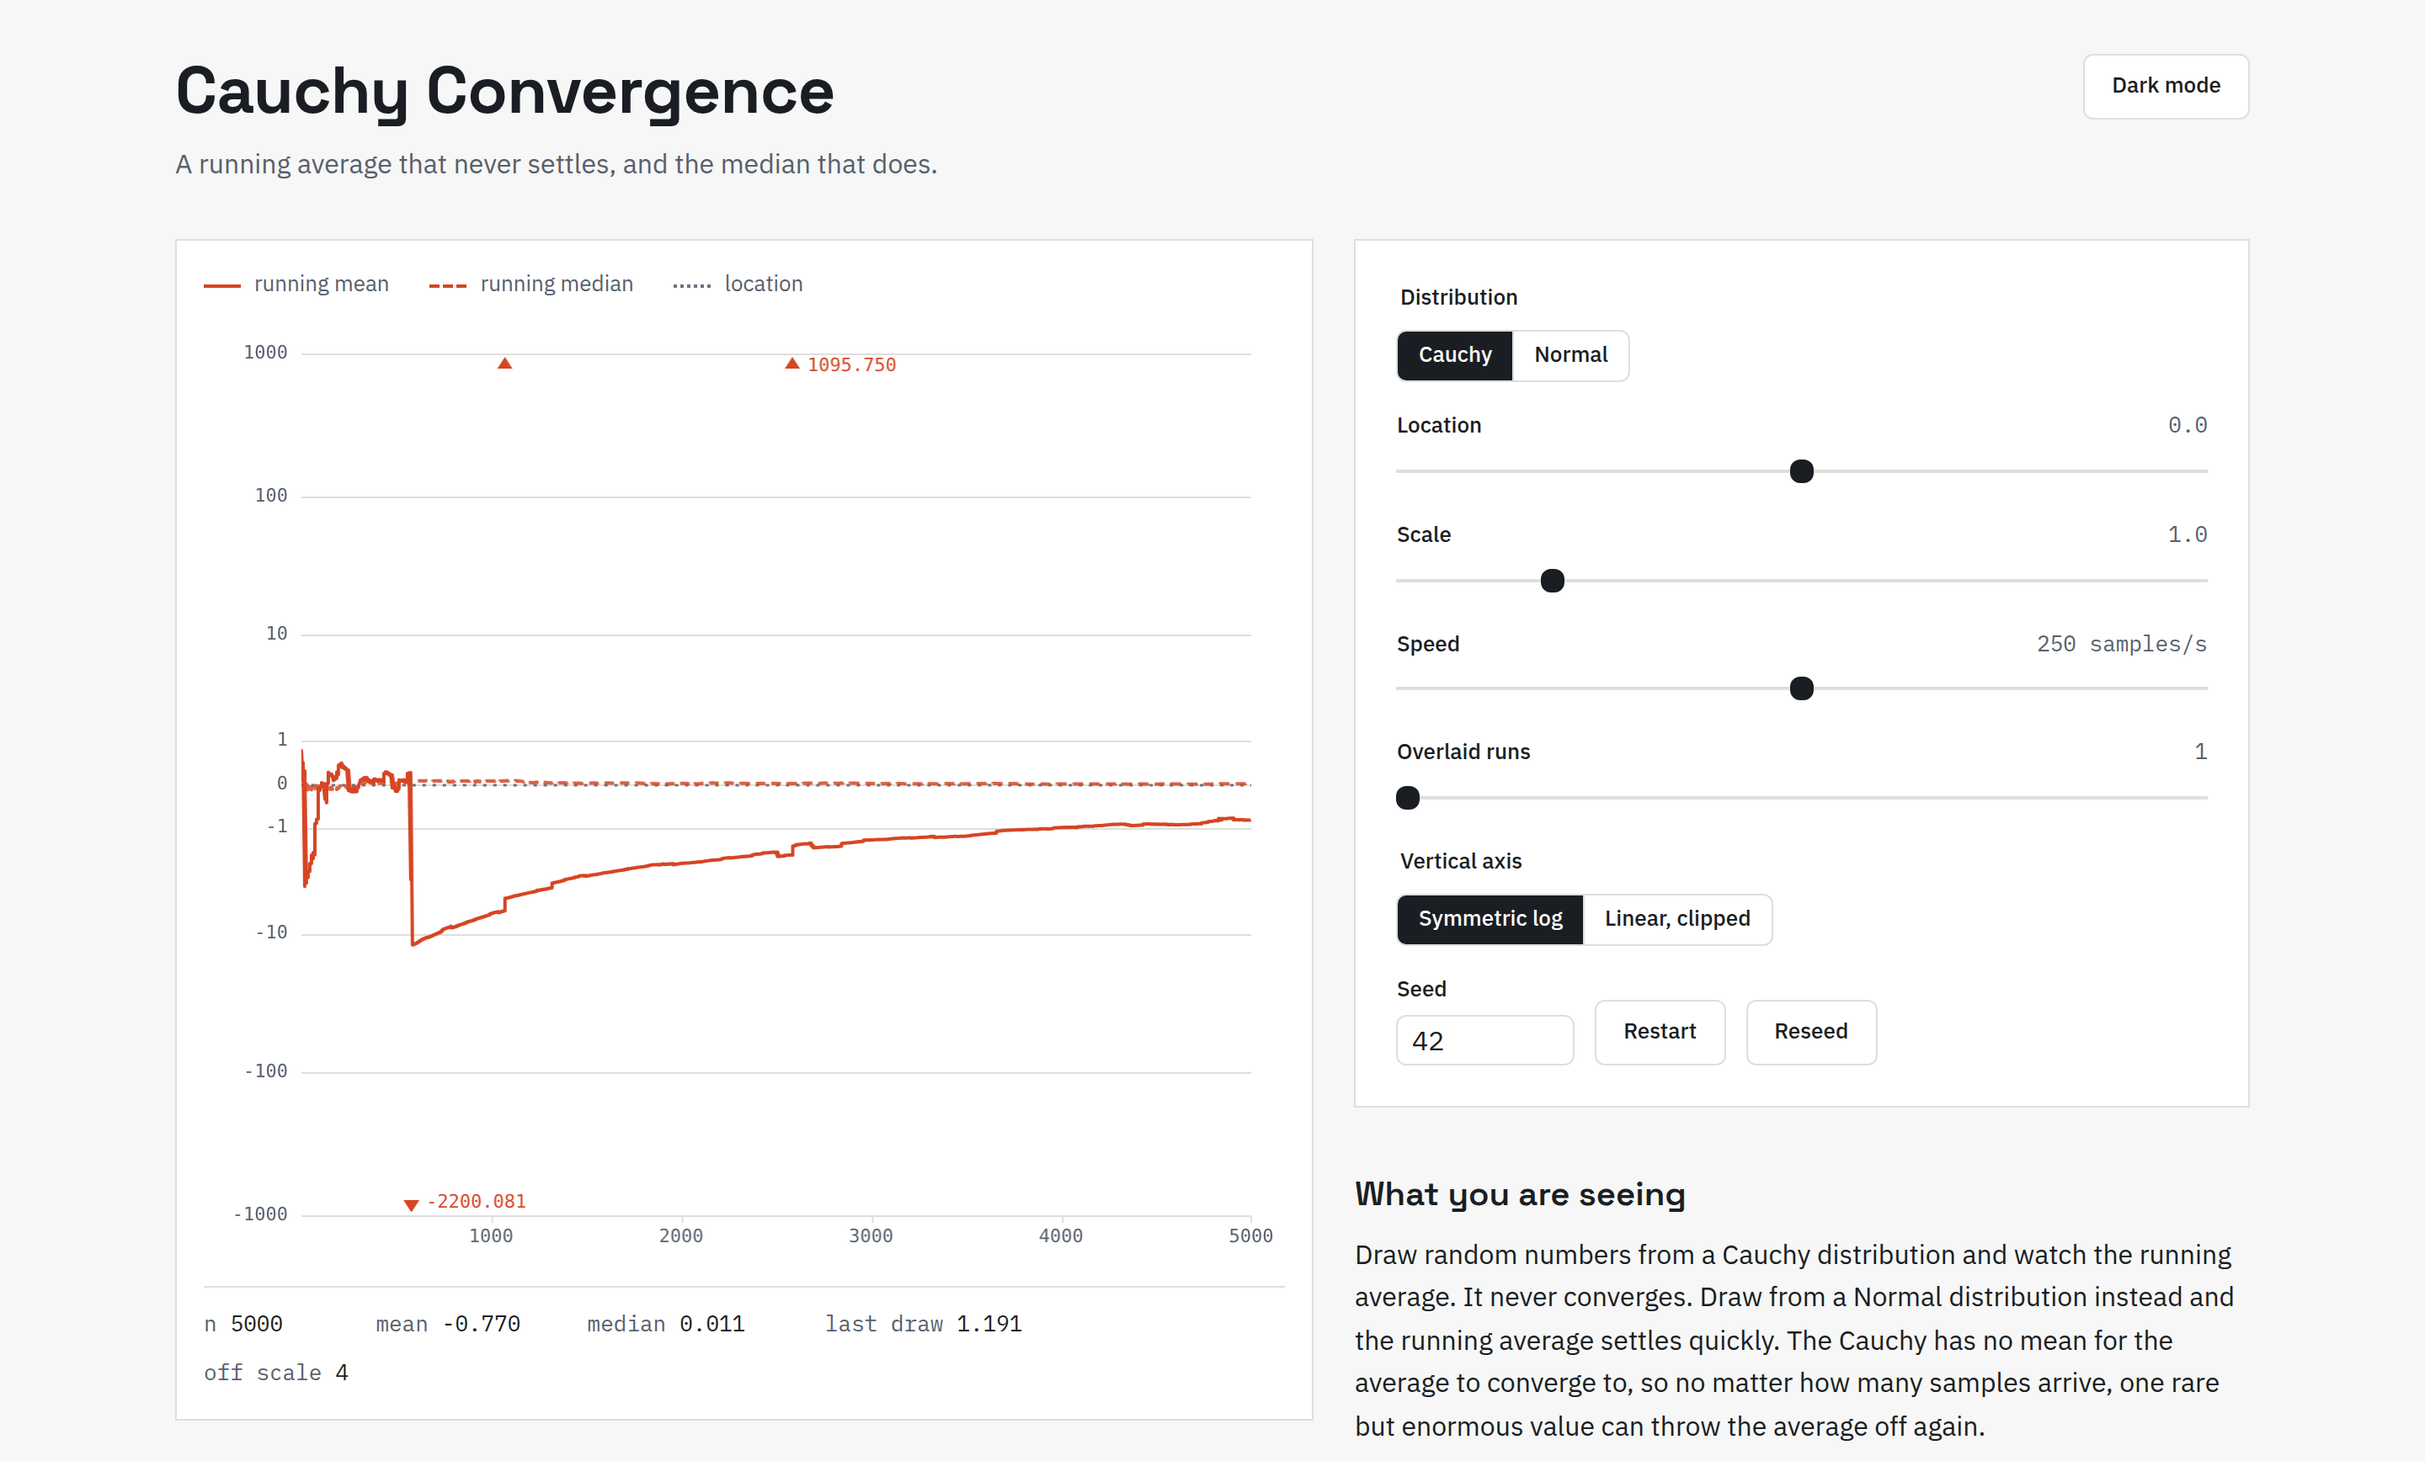
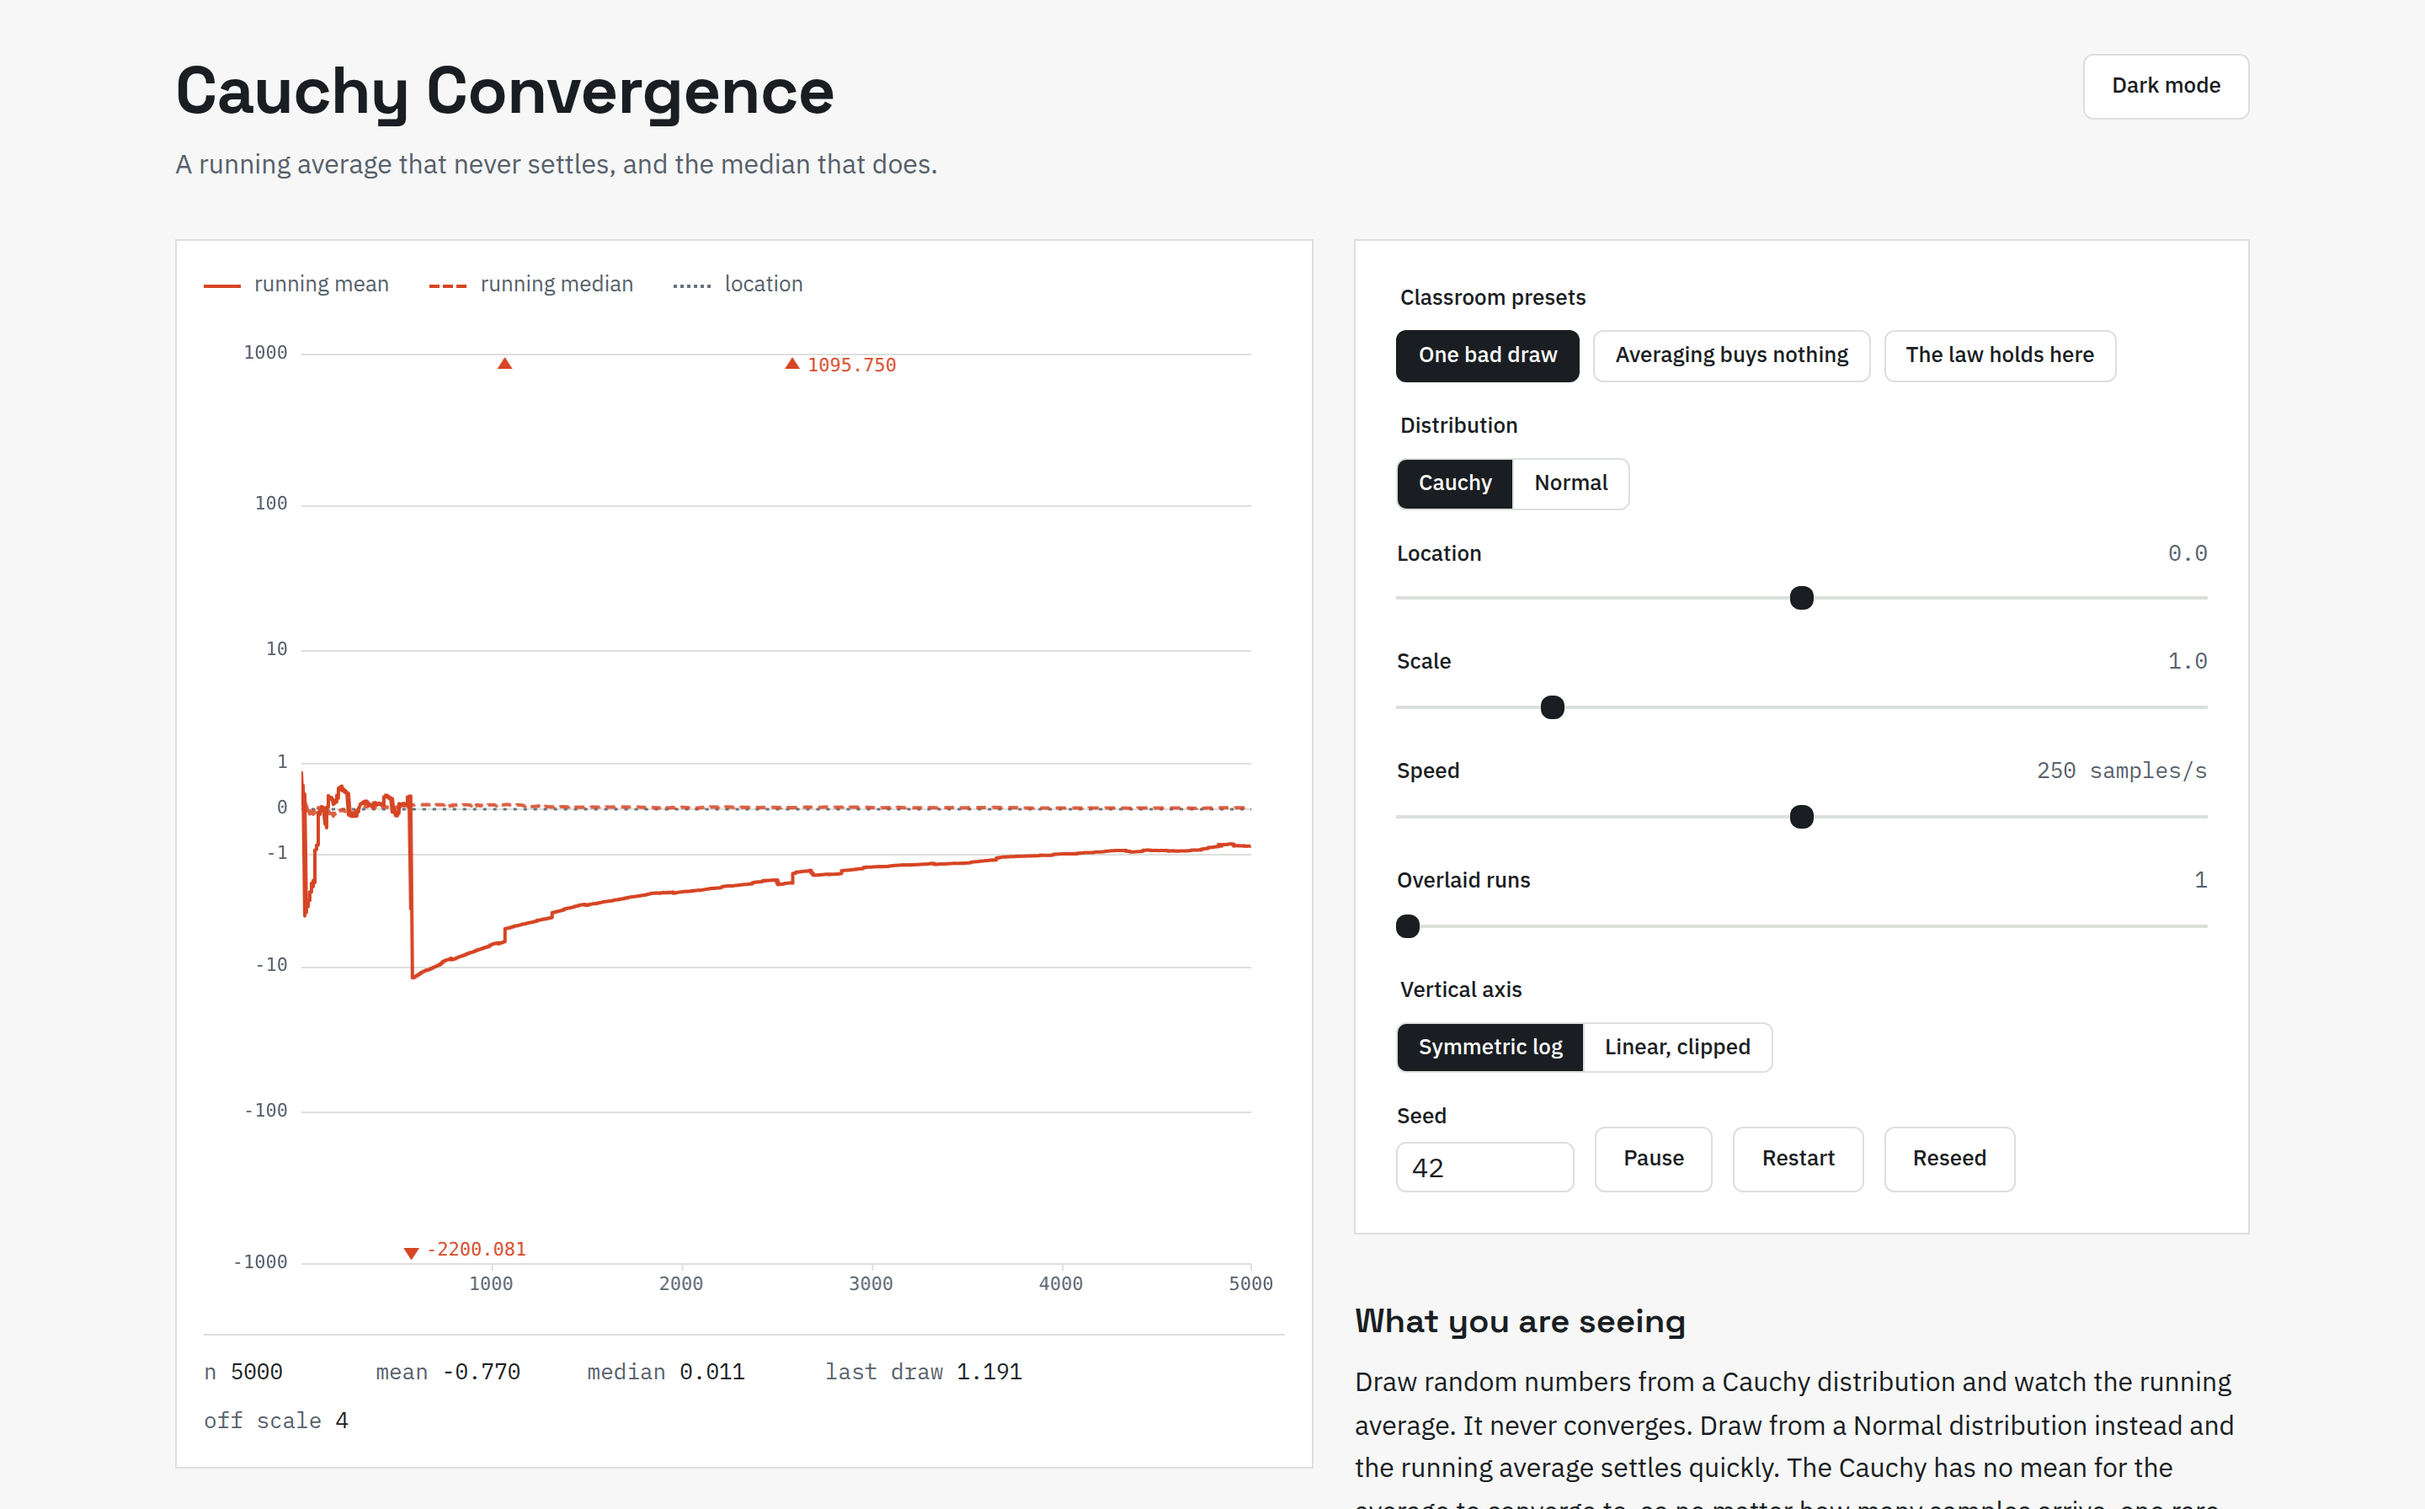
feat: add classroom presets and pause control
Three one-click presets cue the core stories for teaching: one bad
draw, averaging buys nothing, and the law holds here. Pause freezes a
run mid-flight for discussion and Resume continues it. README
screenshots refreshed to match.

diff --git a/src/ui/Controls.tsx b/src/ui/Controls.tsx
@@ -1,6 +1,6 @@
 import { useEffect, useState } from 'react'
 import { motion, useReducedMotion } from 'motion/react'
-import type { SimConfig } from '../config.ts'
+import { PRESETS, type SimConfig } from '../config.ts'
 
 const SPEED_STOPS = [25, 50, 100, 250, 500, 1000, 2000]
 
@@ -16,14 +16,29 @@ const itemVariants = {
   show: { opacity: 1, y: 0, transition: { duration: 0.22, ease: EASE_OUT } },
 }
 
+function matchesPreset(config: SimConfig, preset: SimConfig): boolean {
+  return (Object.keys(preset) as Array<keyof SimConfig>).every((k) => config[k] === preset[k])
+}
+
 interface ControlsProps {
   config: SimConfig
+  paused: boolean
   onChange: (patch: Partial<SimConfig>) => void
+  onPreset: (config: SimConfig) => void
+  onTogglePause: () => void
   onRestart: () => void
   onReseed: () => void
 }
 
-export function Controls({ config, onChange, onRestart, onReseed }: ControlsProps) {
+export function Controls({
+  config,
+  paused,
+  onChange,
+  onPreset,
+  onTogglePause,
+  onRestart,
+  onReseed,
+}: ControlsProps) {
   const [seedText, setSeedText] = useState(String(config.seed))
   const reduced = useReducedMotion() === true
 
@@ -50,6 +65,23 @@ export function Controls({ config, onChange, onRestart, onReseed }: ControlsProp
       initial={reduced ? false : 'hidden'}
       animate="show"
     >
+      <motion.fieldset className="segmented-group" variants={itemVariants}>
+        <legend>Classroom presets</legend>
+        <div className="preset-row">
+          {PRESETS.map((preset) => (
+            <button
+              key={preset.label}
+              type="button"
+              className={matchesPreset(config, preset.config) ? 'preset preset-active' : 'preset'}
+              title={preset.note}
+              onClick={() => onPreset(preset.config)}
+            >
+              {preset.label}
+            </button>
+          ))}
+        </div>
+      </motion.fieldset>
+
       <motion.fieldset className="segmented-group" variants={itemVariants}>
         <legend>Distribution</legend>
         <div className="segmented">
@@ -177,6 +209,9 @@ export function Controls({ config, onChange, onRestart, onReseed }: ControlsProp
             }}
           />
         </label>
+        <button type="button" onClick={onTogglePause}>
+          {paused ? 'Resume' : 'Pause'}
+        </button>
         <button type="button" onClick={onRestart}>
           Restart
         </button>

diff --git a/src/App.tsx b/src/App.tsx
@@ -9,19 +9,32 @@ import { formatReadout } from './viz/scales.ts'
 function App() {
   const [config, setConfig] = useState<SimConfig>(DEFAULT_CONFIG)
   const [restartToken, setRestartToken] = useState(0)
+  const [paused, setPaused] = useState(false)
   const [readout, setReadout] = useState<Readout | null>(null)
 
   const handleChange = useCallback((patch: Partial<SimConfig>) => {
     setConfig((current) => ({ ...current, ...patch }))
   }, [])
 
+  const handlePreset = useCallback((preset: SimConfig) => {
+    setConfig(preset)
+    setPaused(false)
+    setRestartToken((token) => token + 1)
+  }, [])
+
+  const handleTogglePause = useCallback(() => {
+    setPaused((value) => !value)
+  }, [])
+
   const handleRestart = useCallback(() => {
+    setPaused(false)
     setRestartToken((token) => token + 1)
   }, [])
 
   const handleReseed = useCallback(() => {
     /* Seeds stay visible and re-enterable, so a reseed just picks a fresh
        small number from the clock rather than touching Math.random. */
+    setPaused(false)
     setConfig((current) => ({ ...current, seed: Date.now() % 1_000_000 }))
   }, [])
 
@@ -62,7 +75,12 @@ function App() {
               </li>
             )}
           </ul>
-          <ConvergenceCanvas config={config} restartToken={restartToken} onReadout={setReadout} />
+          <ConvergenceCanvas
+            config={config}
+            restartToken={restartToken}
+            paused={paused}
+            onReadout={setReadout}
+          />
           <dl className="readouts">
             <div>
               <dt>n</dt>
@@ -89,7 +107,10 @@ function App() {
         <Explainer />
         <Controls
           config={config}
+          paused={paused}
           onChange={handleChange}
+          onPreset={handlePreset}
+          onTogglePause={handleTogglePause}
           onRestart={handleRestart}
           onReseed={handleReseed}
         />
@@ -97,7 +118,7 @@ function App() {
       <footer className="colophon">
         <p>
           Built by <a href="https://github.com/CameronScarpati">Cameron Scarpati</a> as a
-          portfolio project. <a href="https://github.com/CameronScarpati/cauchy-schwarz-divergence">
+          portfolio project. <a href="https://github.com/CameronScarpati/cauchy-convergence">
             Source on GitHub
           </a>
           .

diff --git a/src/viz/ConvergenceCanvas.tsx b/src/viz/ConvergenceCanvas.tsx
@@ -96,16 +96,25 @@ interface ConvergenceCanvasProps {
   config: SimConfig
   /* Bump to replay the current seed from sample zero. */
   restartToken?: number
+  /* Freezes sampling and the replay countdown; drawing still responds to
+     resize and theme changes. */
+  paused?: boolean
   onReadout?: (readout: Readout) => void
 }
 
-export function ConvergenceCanvas({ config, restartToken = 0, onReadout }: ConvergenceCanvasProps) {
+export function ConvergenceCanvas({
+  config,
+  restartToken = 0,
+  paused = false,
+  onReadout,
+}: ConvergenceCanvasProps) {
   const wrapperRef = useRef<HTMLDivElement>(null)
   const bgRef = useRef<HTMLCanvasElement>(null)
   const fgRef = useRef<HTMLCanvasElement>(null)
 
   const configRef = useRef(config)
   const onReadoutRef = useRef(onReadout)
+  const pausedRef = useRef(paused)
   const simRef = useRef<SimState | null>(null)
   const viewRef = useRef<ViewState | null>(null)
   const dirtyRef = useRef(false)
@@ -116,6 +125,7 @@ export function ConvergenceCanvas({ config, restartToken = 0, onReadout }: Conve
   useEffect(() => {
     configRef.current = config
     onReadoutRef.current = onReadout
+    pausedRef.current = paused
   })
 
   /* All state the loop touches lives in refs; these helpers close over the
@@ -321,6 +331,10 @@ export function ConvergenceCanvas({ config, restartToken = 0, onReadout }: Conve
     const frame = (dt: number) => {
       const sim = simRef.current
       if (!sim) return
+      if (pausedRef.current) {
+        if (dirtyRef.current) renderFrame()
+        return
+      }
       const cfg = configRef.current
       if (sim.count < cfg.maxSamples) {
         doneAtRef.current = null

diff --git a/src/config.ts b/src/config.ts
@@ -36,3 +36,56 @@ export interface Readout {
   offScaleCount: number
   done: boolean
 }
+
+/* One-click classroom scenarios: each cues a complete, reproducible story
+   a teacher can talk over without touching the sliders. */
+export interface Preset {
+  label: string
+  note: string
+  config: SimConfig
+}
+
+export const PRESETS: Preset[] = [
+  {
+    label: 'One bad draw',
+    note: 'A single Cauchy sample knocks the running mean off the chart and thousands of samples cannot undo it.',
+    config: {
+      distribution: 'cauchy',
+      location: 0,
+      scale: 1,
+      seed: 42,
+      samplesPerSecond: 250,
+      maxSamples: 5000,
+      yMode: 'symlog',
+      runs: 1,
+    },
+  },
+  {
+    label: 'Averaging buys nothing',
+    note: 'Five independent Cauchy runs give five wandering means, so the jumping is not a one-off.',
+    config: {
+      distribution: 'cauchy',
+      location: 0,
+      scale: 1,
+      seed: 7,
+      samplesPerSecond: 500,
+      maxSamples: 5000,
+      yMode: 'symlog',
+      runs: 5,
+    },
+  },
+  {
+    label: 'The law holds here',
+    note: 'Normal draws settle inside the tightening 95 percent band, which is what the Law of Large Numbers usually looks like.',
+    config: {
+      distribution: 'normal',
+      location: 0,
+      scale: 1,
+      seed: 42,
+      samplesPerSecond: 250,
+      maxSamples: 5000,
+      yMode: 'linear',
+      runs: 1,
+    },
+  },
+]

diff --git a/src/config.test.ts b/src/config.test.ts
@@ -1,0 +1,32 @@
+import { describe, expect, it } from 'vitest'
+import { PRESETS } from './config.ts'
+
+/* Presets bypass the sliders, so they must stay inside the ranges the
+   sliders can express or the controls desync from the running config. */
+describe('classroom presets', () => {
+  it('has unique labels', () => {
+    const labels = PRESETS.map((p) => p.label)
+    expect(new Set(labels).size).toBe(labels.length)
+  })
+
+  it.each(PRESETS.map((p) => [p.label, p] as const))('%s stays in control range', (_, preset) => {
+    const { config } = preset
+    expect(config.location).toBeGreaterThanOrEqual(-5)
+    expect(config.location).toBeLessThanOrEqual(5)
+    expect(config.scale).toBeGreaterThanOrEqual(0.1)
+    expect(config.scale).toBeLessThanOrEqual(5)
+    expect([25, 50, 100, 250, 500, 1000, 2000]).toContain(config.samplesPerSecond)
+    expect(config.runs).toBeGreaterThanOrEqual(1)
+    expect(config.runs).toBeLessThanOrEqual(5)
+    expect(config.seed).toBeGreaterThanOrEqual(0)
+    expect(config.maxSamples).toBeGreaterThan(0)
+  })
+
+  it('pairs each distribution with its natural axis', () => {
+    for (const preset of PRESETS) {
+      expect(preset.config.yMode).toBe(
+        preset.config.distribution === 'normal' ? 'linear' : 'symlog',
+      )
+    }
+  })
+})

diff --git a/src/index.css b/src/index.css
@@ -362,6 +362,22 @@ input[type='range']::-moz-range-thumb {
   outline-offset: -2px;
 }
 
+.preset-row {
+  display: flex;
+  flex-wrap: wrap;
+  gap: var(--space-2);
+}
+
+.preset-row .preset {
+  padding: var(--space-1) var(--space-3);
+}
+
+.preset-row .preset-active {
+  background: var(--text);
+  color: var(--surface);
+  border-color: var(--text);
+}
+
 .control-row {
   display: flex;
   align-items: flex-end;

diff --git a/src/theme/tokens.css b/src/theme/tokens.css
@@ -1,6 +1,5 @@
 /*
  * Design tokens for the Cauchy convergence demo.
- * Source of truth: .claude/skills/frontend-design/references/design-tokens.md
  * Light values live on :root; dark values switch via data-theme on <html>.
  */
 

diff --git a/README.md b/README.md
@@ -18,7 +18,7 @@ The Cauchy distribution has no defined mean or variance, so the Law of Large Num
 
 ## Using it
 
-Toggle between Cauchy and Normal. Adjust the location and scale. Change the animation speed. Restart replays the current seed from sample one, Reseed picks a fresh seed, and typing a seed into the box reproduces a run exactly. Switch the vertical axis between symmetric log and clipped linear, where off-scale values are pinned to the edge and annotated with their actual size. Turn on multiple overlaid runs to confirm the mean's wandering is not a one-off. A button in the header switches light and dark themes. Finished runs pause briefly and then replay the same seed, so the chart keeps moving while you read.
+Three classroom presets cue up the core stories in one click: one bad draw, averaging buys nothing, and the law holds here. Pause freezes a run mid-flight so a moment can be discussed, and Resume picks it back up. Toggle between Cauchy and Normal. Adjust the location and scale. Change the animation speed. Restart replays the current seed from sample one, Reseed picks a fresh seed, and typing a seed into the box reproduces a run exactly. Switch the vertical axis between symmetric log and clipped linear, where off-scale values are pinned to the edge and annotated with their actual size. Turn on multiple overlaid runs to confirm the mean's wandering is not a one-off. A button in the header switches light and dark themes. Finished runs pause briefly and then replay the same seed, so the chart keeps moving while you read.
 
 ## Running locally
 
